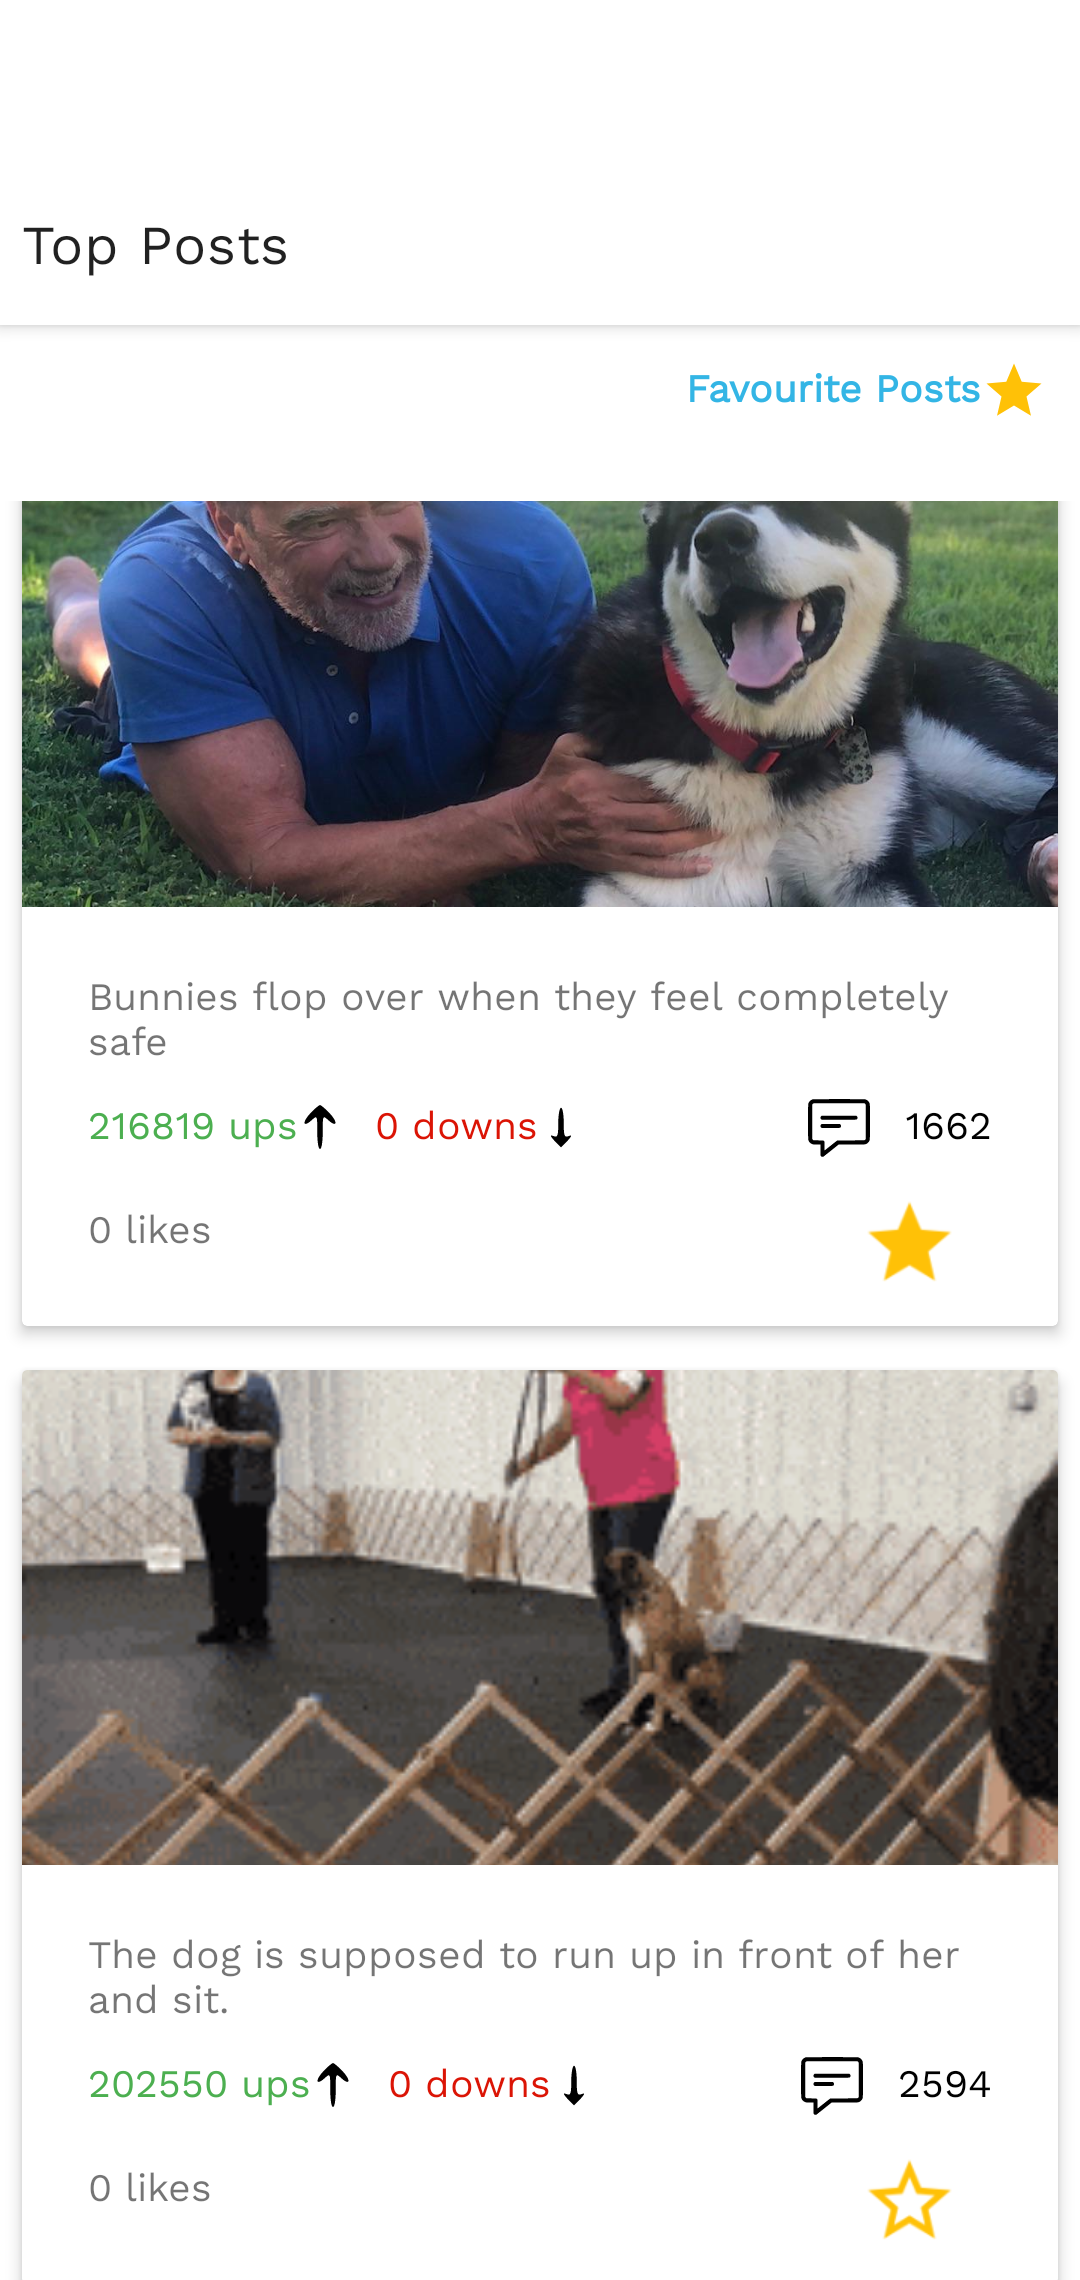
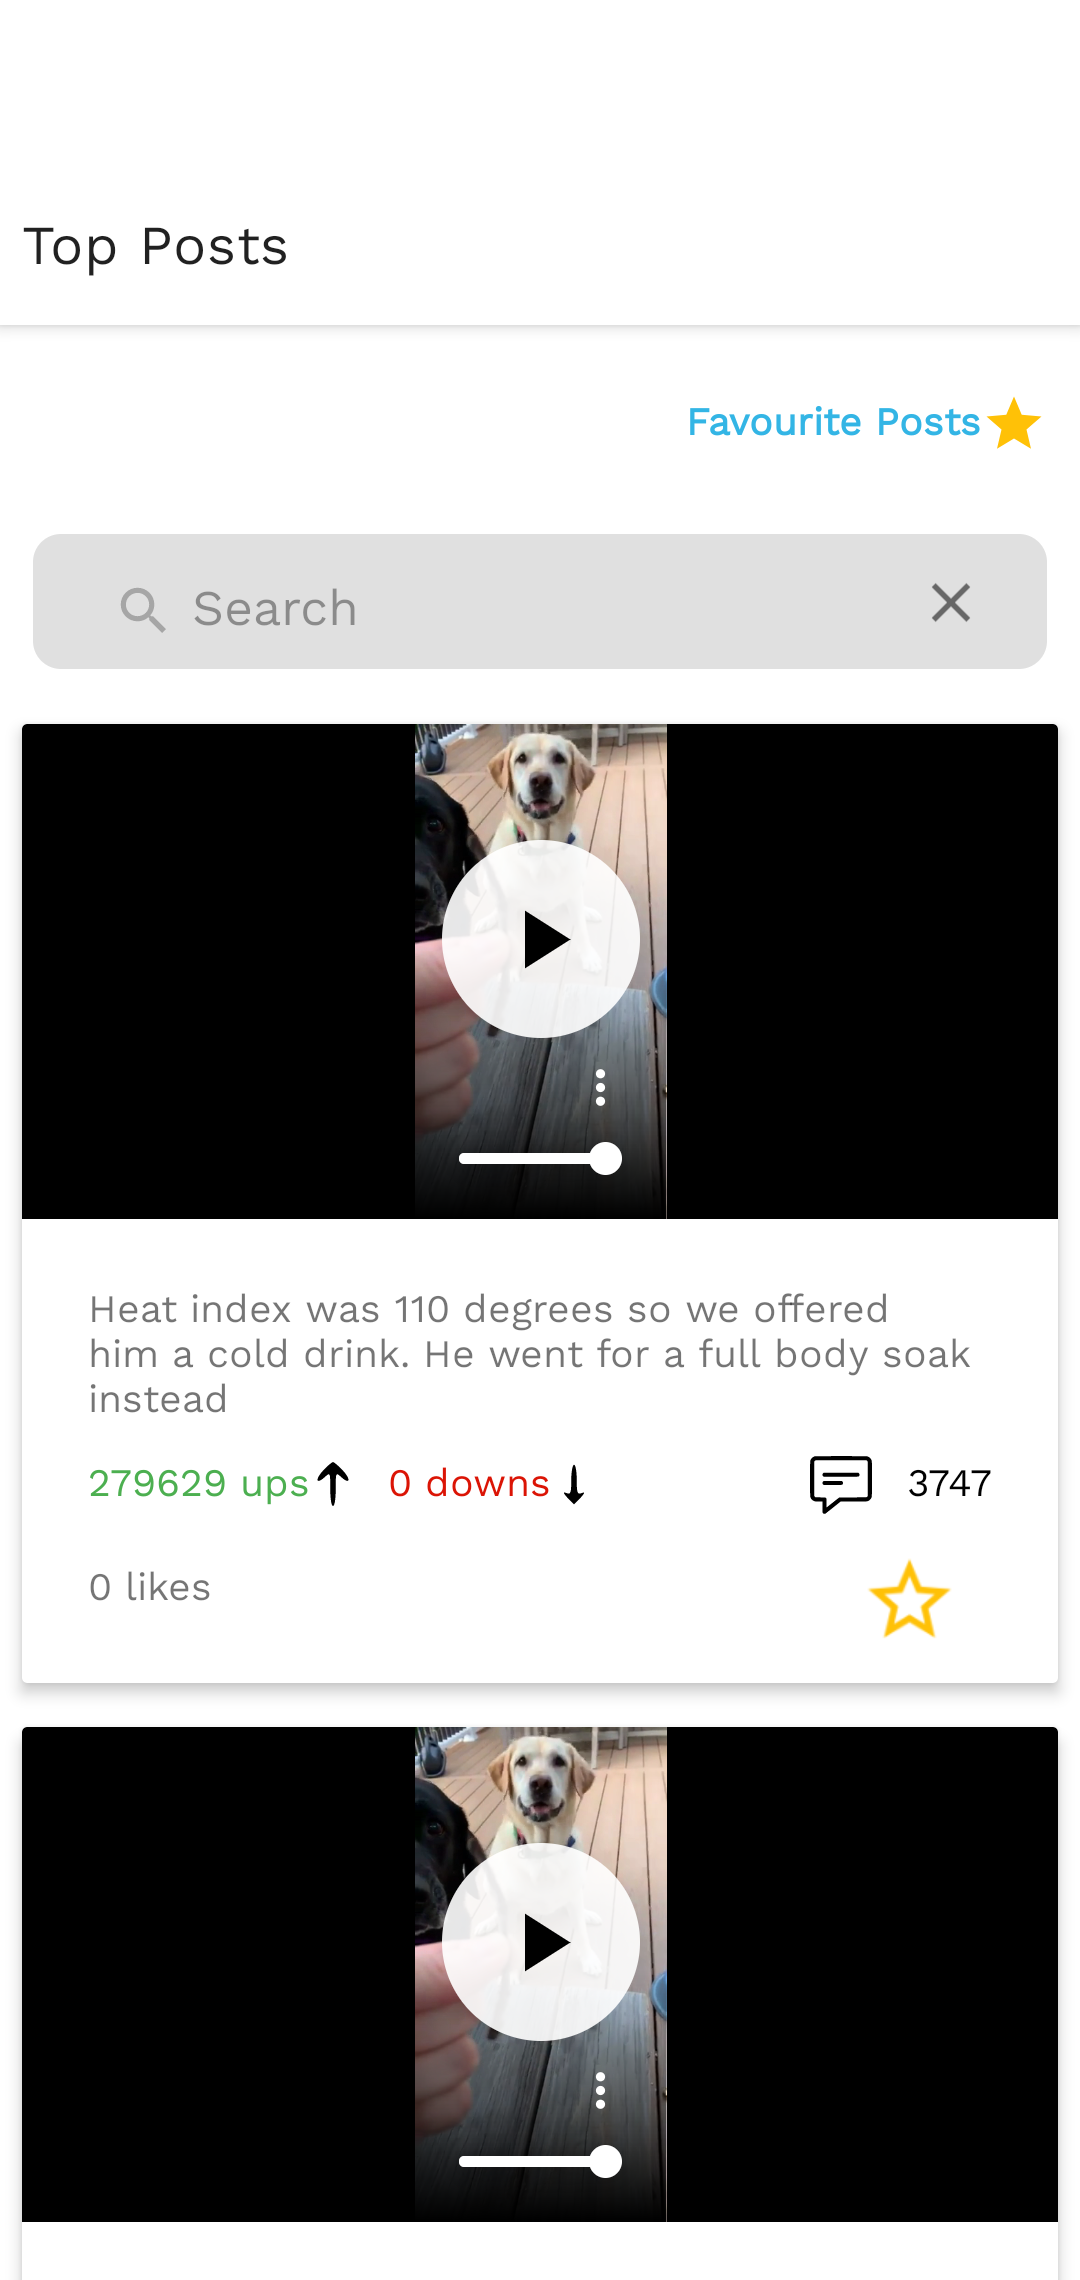
updated readme

diff --git a/app/src/main/java/com/zalocoders/redditapp/ui/posts/list/PostsListFragment.kt b/app/src/main/java/com/zalocoders/redditapp/ui/posts/list/PostsListFragment.kt
@@ -1,11 +1,14 @@
 package com.zalocoders.redditapp.ui.posts.list
 
+import android.content.Context
 import android.os.Bundle
 import androidx.fragment.app.Fragment
 import android.view.LayoutInflater
 import android.view.View
 import android.view.ViewGroup
+import android.view.inputmethod.InputMethodManager
 import android.widget.Toast
+import androidx.appcompat.widget.SearchView
 import androidx.fragment.app.viewModels
 import androidx.lifecycle.lifecycleScope
 import androidx.navigation.fragment.findNavController
@@ -43,6 +46,8 @@ class PostsListFragment : Fragment(),OnClickListener{
 		setUpViews()
 		getPost()
 		setUpLoading()
+		searchCloseListener()
+		setUpSearch()
 	}
 	
 	private fun setUpViews(){
@@ -51,6 +56,7 @@ class PostsListFragment : Fragment(),OnClickListener{
 			findNavController().navigate(action)
 		}
 	}
+	
 	private fun observeViewModel(){
 		viewModel.isSaved.observe(viewLifecycleOwner,{
 			when(it){
@@ -90,6 +96,14 @@ class PostsListFragment : Fragment(),OnClickListener{
 		}
 	}
 	
+	private fun setUpSearchData(query:String){
+		lifecycleScope.launchWhenStarted{
+			viewModel.getSearchedItems(query).collectLatest {
+				postAdapter.submitData(it)
+			}
+		}
+	}
+	
 	private fun setUpLoading(){
 		postAdapter.addLoadStateListener { loadState ->
 		
@@ -110,6 +124,38 @@ class PostsListFragment : Fragment(),OnClickListener{
 				}
 			}
 		}
+	}
+	
+	private fun setUpSearch() {
+		
+		binding.multiSearchView.isIconified = true
+		
+		binding.multiSearchView.setOnQueryTextListener(object : SearchView.OnQueryTextListener {
+			
+			override fun onQueryTextChange(newText: String): Boolean {
+				return false
+			}
+			
+			override fun onQueryTextSubmit(query: String): Boolean {
+				setUpSearchData(query)
+				closeKeyBoard()
+				return true
+			}
+		})
+	}
+	
+	private fun searchCloseListener() {
+		binding.multiSearchView.setOnCloseListener {
+			closeKeyBoard()
+			getPost()
+			true
+		}
+	}
+	
+	private fun closeKeyBoard() {
+		val imm =
+				activity?.getSystemService(Context.INPUT_METHOD_SERVICE) as InputMethodManager
+		imm.hideSoftInputFromWindow(binding.root.windowToken, 0)
 	}
 	
 	override fun addFavourite(item: Children) {

diff --git a/app/src/main/java/com/zalocoders/redditapp/ui/posts/list/PostListRepository.kt b/app/src/main/java/com/zalocoders/redditapp/ui/posts/list/PostListRepository.kt
@@ -25,7 +25,13 @@ class PostListRepository @Inject constructor(
 			PostPagingSource(apiService)
 		}.flow
 	 }
-
+	
+	fun getSearchedItems(query: String):Flow<PagingData<Children>> {
+			return Pager(PagingConfig(pageSize = 25)) {
+				SearchDataSource(apiService,query)
+			}.flow
+	}
+	
 	@SuppressLint("CheckResult")
 	fun saveFavouriteToDb(post:FavouritePostEntity): Completable {
 		return favouritePostsDao.insertFavourite(post)
@@ -40,7 +46,6 @@ class PostListRepository @Inject constructor(
 	}
 }
 
-
 class PostPagingSource(
 		private val apiService: ApiService
 ) : PagingSource<Int, Children>() {
@@ -49,6 +54,28 @@ class PostPagingSource(
 		return try {
 			val nextPage = params.key ?: 1
 			val response = apiService.getTopPosts("all",nextPage.toString(),"poo")
+			
+			LoadResult.Page(
+					data = response.data.children,
+					prevKey = if (nextPage == 1) null else nextPage - 1,
+					nextKey = response.data.dist + 1
+			)
+		} catch (e: Exception) {
+			LoadResult.Error(e)
+		}
+	}
+}
+
+
+class SearchDataSource(
+		private val apiService: ApiService,
+		private val query:String
+) : PagingSource<Int, Children>() {
+	
+	override suspend fun load(params: LoadParams<Int>): LoadResult<Int, Children> {
+		return try {
+			val nextPage = params.key ?: 1
+			val response = apiService.searchPosts(query,"all",nextPage.toString())
 			
 			LoadResult.Page(
 					data = response.data.children,

diff --git a/app/src/main/java/com/zalocoders/redditapp/di/NetworkModule.kt b/app/src/main/java/com/zalocoders/redditapp/di/NetworkModule.kt
@@ -1,5 +1,6 @@
 package com.zalocoders.redditapp.di
 
+import com.jakewharton.retrofit2.adapter.kotlin.coroutines.CoroutineCallAdapterFactory
 import com.squareup.moshi.Moshi
 import com.squareup.moshi.kotlin.reflect.KotlinJsonAdapterFactory
 import com.zalocoders.redditapp.network.ApiService
@@ -14,7 +15,6 @@ import retrofit2.Retrofit
 import retrofit2.converter.moshi.MoshiConverterFactory
 import java.util.concurrent.TimeUnit
 import javax.inject.Singleton
-import retrofit2.adapter.rxjava2.RxJava2CallAdapterFactory
 
 @Module
 @InstallIn(SingletonComponent::class)
@@ -55,6 +55,7 @@ object NetworkModule {
 			.baseUrl(BASE_URL)
 			.client(okHttpClient)
 			.addConverterFactory(MoshiConverterFactory.create(moshi))
+			.addCallAdapterFactory(CoroutineCallAdapterFactory())
 			.build()
 	
 	@Provides

diff --git a/app/src/main/java/com/zalocoders/redditapp/network/ApiService.kt b/app/src/main/java/com/zalocoders/redditapp/network/ApiService.kt
@@ -7,7 +7,7 @@ import retrofit2.http.Query
 interface ApiService {
 	
 	@GET("top.json")
-	 suspend fun getTopPosts(
+	suspend fun getTopPosts(
 			@Query("t") t: String,
 			@Query("limit") limit: String,
 			@Query("after") after: String,
@@ -15,9 +15,9 @@ interface ApiService {
 	
 	
 	@GET("search.json")
-	 fun searchPosts(
+	suspend fun searchPosts(
 			@Query("q") query: String,
-			@Query("t") t: String,
+			@Query("after") t: String,
 			@Query("limit") limit: String,
 	): PostsResponse
 }

diff --git a/app/src/main/java/com/zalocoders/redditapp/ui/posts/list/PostListViewModel.kt b/app/src/main/java/com/zalocoders/redditapp/ui/posts/list/PostListViewModel.kt
@@ -30,6 +30,8 @@ class PostListViewModel @Inject constructor(
 	
 	fun getTopPosts() = repository.getTopPosts().cachedIn(viewModelScope)
 	
+	fun getSearchedItems(query: String) = repository.getSearchedItems(query).cachedIn(viewModelScope)
+	
 	fun saveFavouriteToDb(favouritePostEntity: FavouritePostEntity){
 		disposable.add(repository.saveFavouriteToDb(favouritePostEntity)
 				.subscribeOn(Schedulers.io())
